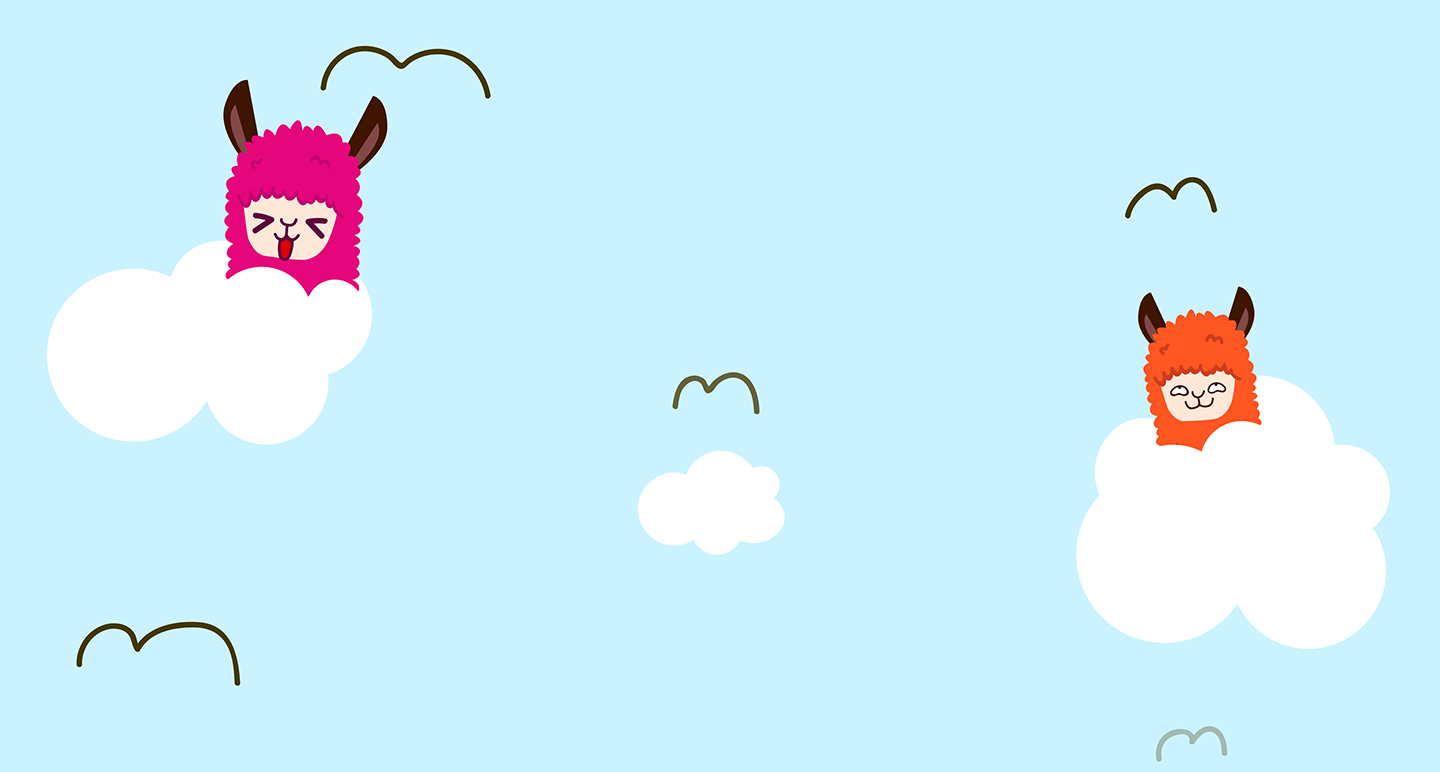
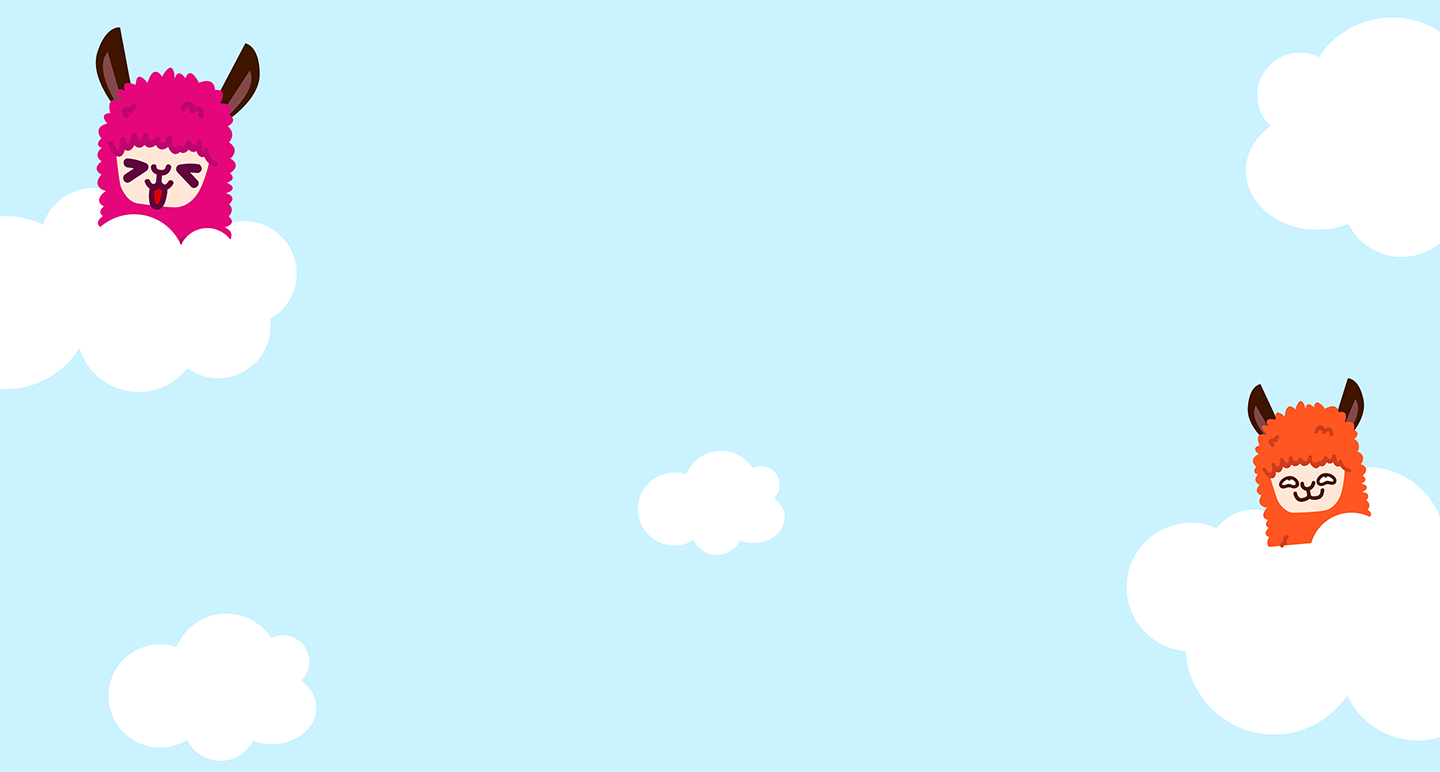
now design

diff --git a/pages/containers/Team.js b/pages/containers/Team.js
@@ -1,6 +1,8 @@
 import React from 'react'
 import styled from 'styled-components'
 
+import Modal from '../components/Modal'
+
 const Box = styled.div`
   margin: 1em 0;
   display: flex;
@@ -9,9 +11,30 @@ const Box = styled.div`
   align-items: center;
   width: 100%;
   height: 185px;
+  
+  span {
+    font-size: 35px;
+    color: ${props => props.color ? props.color : '#fff' };
+  }
 `
 
 class TeamPage extends React.Component {
+
+  constructor(props) {
+    super(props)
+    this.state = {
+      oneOn : 'false',
+      twoOn : 'false',
+      threeOn : 'false',
+      fourOn : 'false'
+    }
+    this.handleClick = this.handleClick.bind(this)
+  }
+
+  handleClick() {
+    this.setState({ oneOn: 'true' })
+  }
+
   render() {
     return (
       <div id="team" className="row team-height">
@@ -22,27 +45,28 @@ class TeamPage extends React.Component {
           <div className="container">
             <div className="row">
               <div className="col-md-3">
-                <Box>
+                <Box onClick={() => { this.handleClick() }} color="#A56CFF">
                   <img className="team-logo-top" src="../../static/img/font.png" alt="" />
-                  Front-End
+                  <span>Front-End</span>
                 </Box>
+                <Modal handle={() => { this.setState({ oneOn : 'false'}) }} on={this.state.oneOn} />
               </div>
               <div className="col-md-3">
-                <Box>
+                <Box color="#D4FF36">
                   <img className="team-logo-top" src="../../static/img/de.png" alt="" />
-                  Design
+                  <span>Design</span>
                 </Box>
               </div>
               <div className="col-md-3">
-                <Box>
+                <Box color="#FF6666">
                   <img className="team-logo-top" src="../../static/img/game.png" alt="" />
-                  Game
+                  <span>Game</span>
                 </Box>
               </div>
               <div className="col-md-3">
-                <Box>
+                <Box color="#41E0A7">
                   <img className="team-logo-top" src="../../static/img/infra.png" alt="" />
-                  Infrastructure
+                  <span>Infrastructure</span>
                 </Box>
               </div>
             </div>

diff --git a/static/css/style.css b/static/css/style.css
@@ -37,6 +37,7 @@ body {
 
 #nav nav li a{
   color: #fff;
+  font-size: 1.2em;
 }
 
 #nav .navbar-brand {
@@ -93,7 +94,7 @@ img.breaklimit {
   display: flex;
   justify-content: center;
   align-items: center;
-  padding: 1em;
+  padding: 2em;
   min-height: 90vh;
   background-image: url('../img/bg2.png');
   background-size: cover;
@@ -101,15 +102,15 @@ img.breaklimit {
 }
 
 .team-height {
-  padding: 1em;
+  padding: 2em;
   min-height: 90vh;
-  background-color: #CAF3FF;
+  background-image: url('../img/bg3.png');
   background-size: cover;
   background-position: center;
 }
 
 .where-height {
-  padding: 1em;
+  padding: 2em;
   min-height: 100vh;
   background-image: url('../img/bg4.png');
   background-size: cover;
@@ -117,6 +118,8 @@ img.breaklimit {
 }
 
 .when-height {
+  padding: 2em;
+  flex-direction: column;
   min-height: 120vh;
   background-image: url('../img/bg5.png');
   background-size: cover;
@@ -163,7 +166,8 @@ img.breaklimit {
 }
 
 .what-text {
-  max-height: 2.5em;
+  margin-bottom: 1.2em;
+  max-height: 3em;
 }
 
 .position-fix {
@@ -180,9 +184,23 @@ img.breaklimit {
 }
 
 @media only screen and
+(min-width: 800px){
+  .when-height {
+    flex-direction: row;
+  }
+  .alpaca {
+    max-height: 22em;
+  }
+}
+
+@media only screen and
 (min-width: 1024px){
   .team-logo-top {
     margin-top: 1em;
     margin-bottom: 1em;
+  }
+  #nav .navbar-brand {
+    position: absolute;
+    top: 10px;
   }
 }

diff --git a/pages/components/Modal.js b/pages/components/Modal.js
@@ -1,0 +1,44 @@
+import React from 'react'
+import styled from 'styled-components'
+
+const Div = styled.div`
+  display: ${props => props.on === 'true' ? 'block' : 'none'};
+`
+
+class Modal extends React.Component {
+
+  constructor(props) {
+    super(props)
+    this.state = {
+      on : 'false'
+    }
+  }
+
+  render() {
+    return (
+      <Div on={this.props.on}>
+        <div class="modal">
+          <div class="modal-dialog" role="document">
+            <div class="modal-content">
+              <div class="modal-header">
+                <h5 class="modal-title">Modal title</h5>
+                <button type="button" class="close" onClick={ () => {this.props.handle()} }>
+                  <span aria-hidden="true">&times;</span>
+                </button>
+              </div>
+              <div class="modal-body">
+                <p>Modal body text goes here.</p>
+              </div>
+              <div class="modal-footer">
+                <button type="button" class="btn btn-primary">Save changes</button>
+                <button type="button" class="btn btn-secondary" data-dismiss="modal">Close</button>
+              </div>
+            </div>
+          </div>
+        </div>
+      </Div>
+    )
+  }
+}
+
+export default Modal

diff --git a/pages/containers/When.js b/pages/containers/When.js
@@ -4,8 +4,8 @@ class WhenPage extends React.Component {
   render() {
     return (
       <div id="when" className="row when-height">
-        <div className="col-12 text-center col-lg-6">
-          <img className="flip alpaca" src="../../static/img/al6.png" alt="alpaca" />
+        <div style={{ height:'250px' }} className="col-12 text-center col-lg-6">
+          <img className="flip alpaca" src="../../static/img/al8.png" alt="alpaca" />
         </div>
         <div className="col-12 text-center col-lg-6">
           <img className="what-text" src="../../static/img/when.png" alt="when" />

diff --git a/pages/index.js b/pages/index.js
@@ -59,15 +59,15 @@ class Index extends React.Component {
           <Portfolio />
           <Contact />
         </div>
-        <div className="container-fluid">
+        <footer className="container-fluid">
           <div className="row">
             <div className="container">
-              <div className="row">
+              <div className="row text-center">
                 footer
               </div>
             </div>
           </div>
-        </div>
+        </footer>
       </div>
     )
   }

diff --git a/pages/components/Navbar.js b/pages/components/Navbar.js
@@ -12,7 +12,7 @@ class Navbar extends React.Component {
           <span className="navbar-toggler-icon"></span>
         </button>
         <div className="collapse navbar-collapse" id="menu">
-          <ul className="navbar-nav ml-auto mr-auto">
+          <ul className="nav-pills navbar-nav ml-auto mr-auto">
             <li className="nav-item">
               <a className="nav-link" href="#what">What</a>
             </li>

diff --git a/pages/containers/Landing.js b/pages/containers/Landing.js
@@ -29,7 +29,7 @@ class LandingPage extends React.Component {
         <div className="col-12 text-center">
           <img className="breaklimit" src="../../static/img/desc.png" alt="break-limit" />
         </div>
-        <Register style={{marginTop: '2em'}}>Register</Register>
+        <Register style={{marginTop: '2em'}}>Coming Soon</Register>
       </div>
     )
   }
